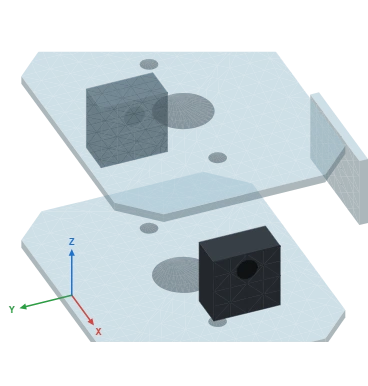
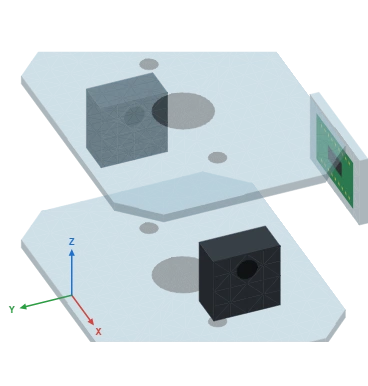
v2026.8.59 : une image se plaque sur une piece, depuis le dessin
Une <image> posee dans le groupe d'une piece est plaquee sur elle en volume :
trois coins projetes suffisent (rotation comprise), c'est le cote VU qui la
prend, elle est decoupee au contour de la piece et porte l'opacite du dessin.

- _lire-contours.mjs : lit une image par groupe, ses trois coins et son opacite
  effective (image + calques).
- _extract-assemblage.mjs : la range en millimetres, centree comme le contour, et
  EMBARQUE le bitmap en data: (webp/png/jpg) - la webview ne lit pas le disque.
- iso3d.mts : imageFace() choisit le cote le plus proche de l'oeil, decoupe au
  contour, range devant la piece ; renderFaces sort un clipPath et une matrix()
  qui amene un carre unite sur le parallelogramme de la face.
- corps-demo.svg porte une carte de demonstration ; illustrations recapturees.
- verify:assemblage : 264 controles (247 avant).
- docs/fr/Drawing-systems.md : section « Une image plaquee sur la piece ».

Changed region(s): [[0.837, 0.2798, 0.9864, 0.5285], [0.3886, 0.2487, 0.4783, 0.342]]

diff --git a/todo.md b/todo.md
@@ -1,6 +1,5 @@
 # À faire
 ## Arraignée : 
-1. Si je veux rendre les cartes (pico et 16 servo) plus réaliste est ce que je te redonne le fichier svg de chaque carte ou est ce que je mappe une vue webp dessus ? Du reste prévois de pouvoir mapper une image sur les pièces (avec transparence ajustable)
 1. Les propriétés de l'araignée doivent être en français.
 1. Fais lui des yeux rouges
 1. Elle est trop petite, double sa taille (pareil pour la patte)et ajoute un paramètre pour les dessins qui donne la largeur souhaitée du systeme finis en pixels (une seule fois pour tout le système)
@@ -21,6 +20,19 @@
 # En réserve
 1. ⏳ Traduction FR du réglage `kablix.simulationWorker` (`package.nls.fr.json`) : sa description a changé avec le défaut activé — au lot de traductions d'avant publication.
 Les cinq lots du worker sont livrés (v2026.8.51 → v2026.8.55).
+
+# >>>>  v2026.8.59 — une image se plaque sur une pièce, depuis le dessin
+
+1. ✅ **Réponse à la question : la WebP, pas le SVG.** Une pièce en volume est un **contour extrudé** — le moteur ne sait poser qu'une couleur par pièce. Redonner le SVG du Pico ne servirait qu'à récupérer son contour et sa couleur de fond : toute la sérigraphie (puces, connecteurs, écritures) serait aplatie ou perdue, et un SVG détaillé mis en volume coûterait des centaines de faces pour 26 px à l'écran. **Poser une WebP sur le contour** donne l'inverse : un seul `<image>`, tout le détail, et le poids d'une vignette. À faire pour le Pico W et le PCA9685 : garder leur contour dans `Composants3D.svg` et y poser la photo de leur face vue.
+2. ✅ **`<image>` dans le groupe d'une pièce = image plaquée en volume** (`_lire-contours.mjs`) : le lecteur remonte, pour chaque groupe, **trois coins projetés** de l'image (origine, côté large, côté haut) plus son **opacité effective** (celle de l'image ET de tous les groupes qui la portent — Inkscape pose souvent la transparence sur le calque). Trois coins suffisent : une rotation Inkscape est déjà dedans. Une seule image par pièce.
+3. ✅ **Rangée en millimètres, bitmap embarqué** (`_extract-assemblage.mjs`, `imageDePiece`) : mêmes millimètres et même centrage que le contour, donc l'image suit la pièce partout — pose, miroir, échelle. Un fichier **lié** (le défaut d'Inkscape, « Incorporer » n'est qu'une option) est résolu **à côté de la planche** et encodé en `data:` une fois pour toutes : la webview tourne sous une CSP fermée et n'ira jamais lire le disque. Formats acceptés : `.webp`, `.png`, `.jpg` ; autre chose ou lien mort → image ignorée, avec un message.
+4. ✅ **Plaquée sur le côté que l'on VOIT** (`imageFace`, `iso3d.mts`) : le côté ne se devine pas au plan de la pièce — le lacet de présentation tourne toute la scène et un flanc gauche devient un flanc droit. Les **deux** candidats sont projetés, le plus proche de l'œil prend l'image. Le découpage est le **contour** de la pièce, pas le rectangle du bitmap : une photo posée sur une plaque échancrée s'arrête au bord. Et elle est rangée **devant la face la plus avancée** de sa pièce, comme un décalque — une plaque est découpée en dizaines de triangles rangés chacun à SA profondeur, une image simplement soulevée passerait dessous.
+5. ✅ **Sortie SVG : un `<clipPath>` + une `matrix()`** (`renderFaces`) : le bitmap est dessiné dans un **carré unité** et c'est la matrice qui l'amène sur la face — la projection isométrique d'un rectangle est un parallélogramme, et un parallélogramme EST une matrice affine. Aucun besoin de connaître la taille en pixels du fichier. Le `<pattern>` a été écarté : il aurait **carrelé** la plaque dès que l'image est plus petite qu'elle. L'image est peinte **seule**, à sa profondeur, avec sa propre opacité — elle ne rejoint pas le groupe translucide de la pièce.
+6. ✅ **Transparence ajustable comme demandé** : c'est l'`opacity` du dessin, réglée au curseur dans Inkscape, relue telle quelle. Rien à écrire dans l'étiquette de pose.
+7. ✅ **Démonstration et couverture de bout en bout** : l'entretoise de `docs/exemples/corps-demo.svg` porte maintenant une petite carte verte (PNG de 105 octets, embarqué) — c'est la seule preuve que la chaîne complète tient, d'Inkscape au rendu. Illustrations `corps-demo.webp` / `corps-demo-eclate.webp` recapturées.
+8. ✅ **Banc `verify:assemblage` : 264 contrôles** (247 avant). Les nouveaux vérifient le calage au millimètre (les trois points tombent sur les coins de la pièce), la mise à l'échelle, qu'un bitmap plus petit **ne s'étire pas**, le découpage au contour, le rangement devant la pièce, le **côté vu** (une pièce retournée d'un demi-tour garde son image face à l'œil), la sortie SVG (découpage + opacité + matrice), et côté planche que tout bitmap rangé est bien **embarqué** et **coté en millimètres**.
+9. ✅ Guide `docs/fr/Drawing-systems.md` : nouvelle section « Une image plaquée sur la pièce » + ligne d'aide-mémoire.
+10. ⏳ Version EN du guide (`docs/en/Drawing-systems.md`) : au lot de traductions d'avant publication.
 
 # >>>>  v2026.8.58 — l'électronique embarquée est toujours là, et les plaques restent derrière
 

diff --git a/docs/fr/Drawing-systems.md b/docs/fr/Drawing-systems.md
@@ -338,6 +338,29 @@ Le mot dit la couleur, et rien d'autre : aucune simulation, aucune masse.
 
 **Une matière translucide n'a pas de liseré.** Une plaque est découpée en dizaines de triangles ; sur chaque arête intérieure, le liseré qui bouche les coutures se recouvre lui-même. Opaque, cela ne se voit pas ; translucide, cela dessinerait une toile d'araignée sur toute la pièce. Le liseré est donc retiré dès que la couleur est transparente.
 
+### Une image plaquée sur la pièce
+
+Une couleur suffit pour du PMMA, pas pour une carte électronique : un Pico ou un PCA9685 ne se reconnaît qu'à sa sérigraphie. **Posez la photo sur le contour, dans le groupe de la pièce** — elle sera plaquée dessus en volume, à sa place et à sa taille.
+
+```svg
+<g id="corps-demo-entretoise-profil">
+  <path class="piece" d="M 135,75 H 175 V 100 H 135 Z" />
+  <image x="140" y="79" width="30" height="18" opacity="0.85" href="pico.webp" />
+  <text x="155" y="107">face pos=0,-36,0 ep=3</text>
+</g>
+```
+
+Ce qu'il faut savoir, et rien de plus :
+
+- **Là où vous la posez sur la planche, là elle sera sur la pièce** : mêmes millimètres, même repère que le contour. Une photo qui déborde du contour est **découpée au contour** — sur une plaque échancrée, elle s'arrête au bord de la plaque. Une photo plus petite reste plus petite : elle se pose, elle ne remplit pas.
+- **La transparence est celle du dessin** (`opacity` de l'image, ou du calque qui la porte), donc réglable au curseur dans Inkscape : à 100 % la photo cache la matière, à 40 % on voit la plaque au travers.
+- **Elle se plaque sur le côté que l'on VOIT.** Pas sur un côté choisi d'avance : les deux flancs de la pièce sont projetés et c'est le plus proche de l'œil qui la prend. Un demi-tour de présentation la fait changer de côté toute seule.
+- **Tournez-la, elle suit** : Inkscape écrit une matrice, l'image la garde. Une carte posée de travers reste de travers en volume.
+- **Une seule image par pièce** : c'est un habillage, pas un collage. La deuxième est ignorée.
+- **Formats acceptés : `.webp`, `.png`, `.jpg`.** Une image liée est retrouvée **à côté de la planche** et **embarquée** dans le module rangé — la webview ne va jamais lire un fichier sur le disque. Préférez donc le WebP : un JPEG de 4 Mo sur une plaque de 30 mm ne se verra pas mieux, mais il pèsera 4 Mo dans l'extension. Lien introuvable ou format non géré : l'image est ignorée, avec un message à l'extraction.
+
+L'entretoise de [`corps-demo.svg`](../exemples/corps-demo.svg) en porte une — c'est la petite carte verte qu'on voit sur son flanc dans les images plus bas.
+
 ### Les axes
 
 Une **pastille rouge** dans le groupe d'une pièce marque une articulation : un axe de coxa, une patella, un pivot. Ses coordonnées sont calculées **dans le repère de l'assemblage**, pose comprise.
@@ -631,6 +654,7 @@ Puis retouchez dans Inkscape, cliquez **↻ recharger**, regardez. L'angle et le
 - Le fémur porte **deux** familles : `coxa` pour s'accrocher au corps, `patella-f` pour porter le tibia.
 - Un nom qui finit par **`-3`, `-1`…** est presque toujours le suffixe qu'Inkscape colle à un copier-coller : la lecture le signale, renommez-le.
 - La **couleur de la pièce est celle du dessin**, transparence comprise ; `mat=` n'est que le repli d'une pièce non peinte.
+- Une **image posée sur le contour** (`.webp`, `.png`, `.jpg`) est plaquée sur la pièce, **du côté que l'on voit**, **découpée au contour** et avec **la transparence du dessin**. Une seule par pièce ; un fichier lié est embarqué à l'extraction.
 - `npm run montre <préfixe>` relit, range et ouvre **tout ce qui commence par là**, à la même échelle : c'est la boucle de travail. On retouche dans Inkscape, on clique **↻ recharger**.
 - Le curseur **éclaté** est le seul moyen de voir ce qu'il y a entre deux flancs.
 - `assemblages.mts` est **généré**, et il est sa propre archive.
